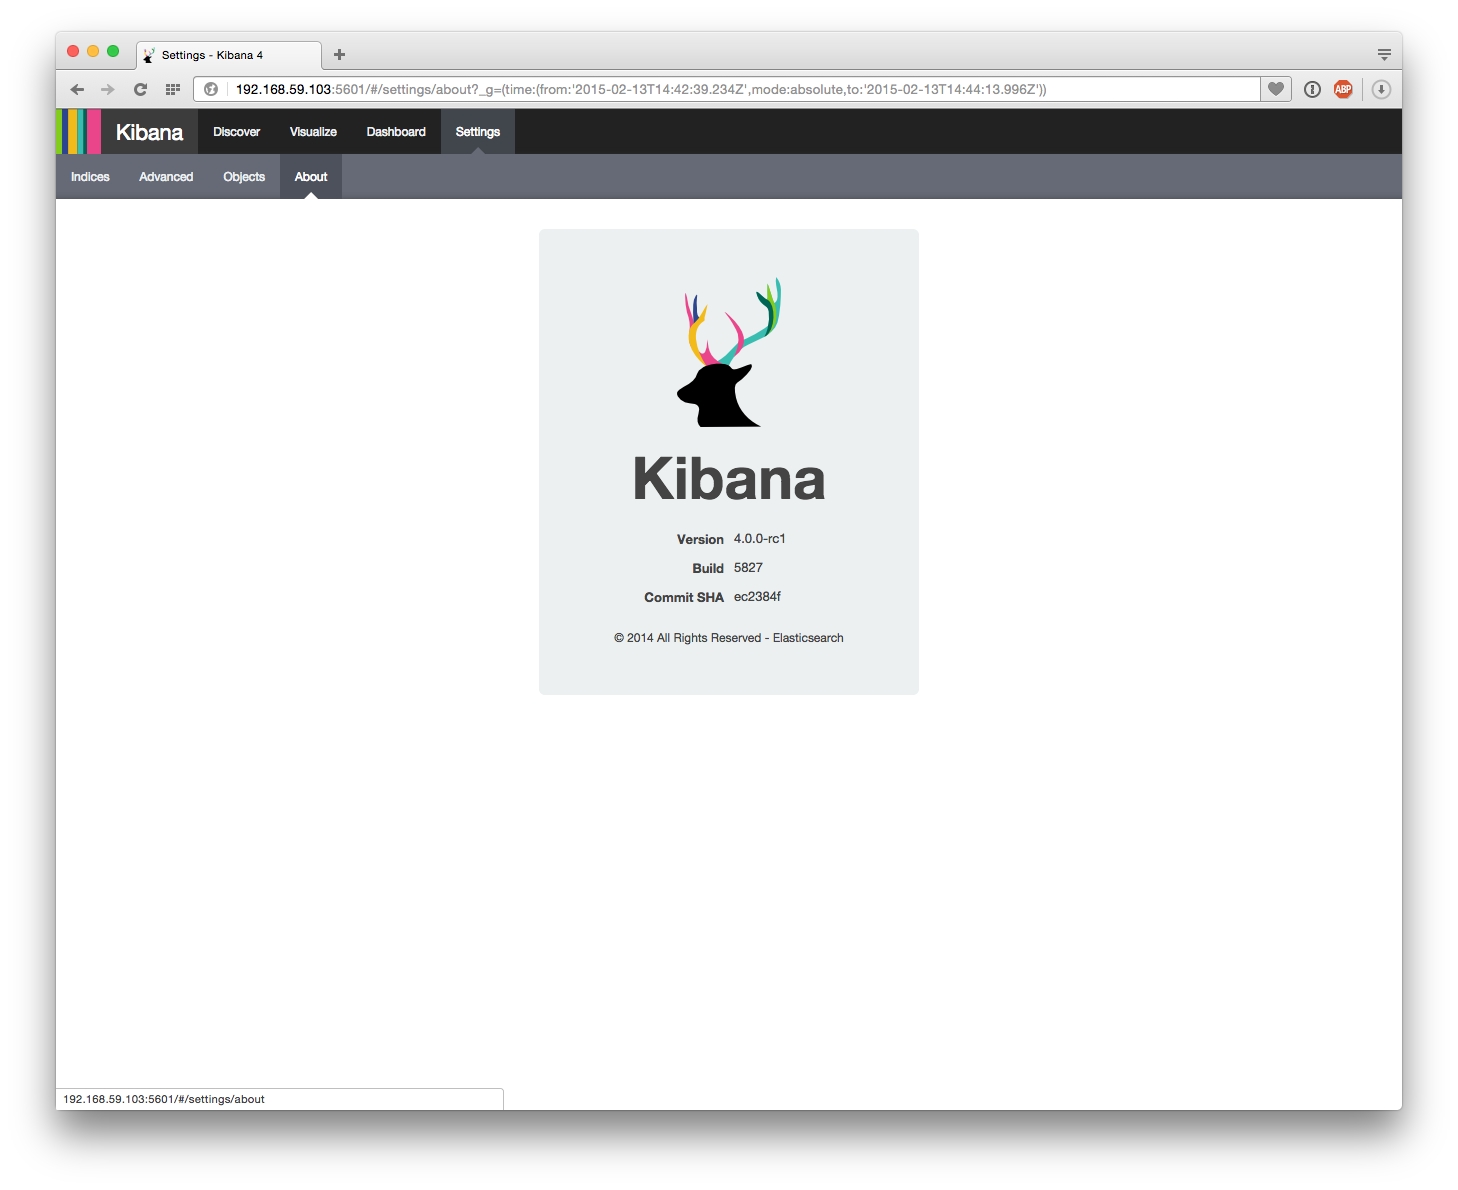
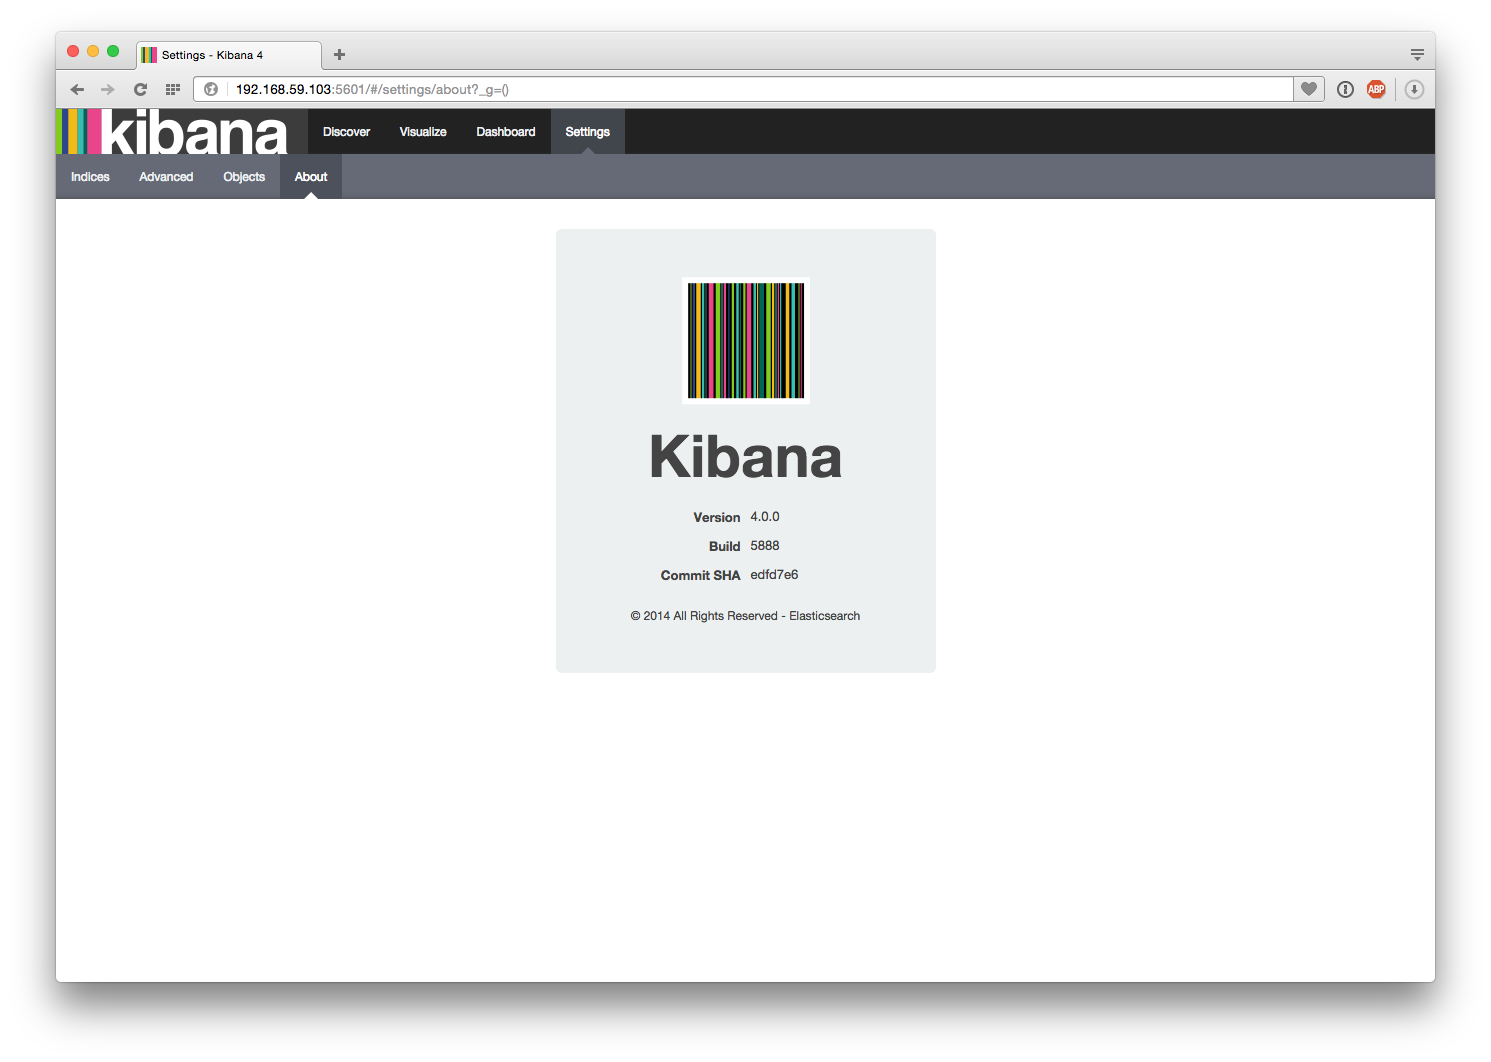
Update to Kibana 4

Changed region(s): [[0.0309, 0.0311, 0.9877, 0.1864], [0.4321, 0.2486, 0.5864, 0.5904], [0.0309, 0.9011, 0.9568, 0.9322]]

diff --git a/README.md b/README.md
@@ -1,4 +1,4 @@
-Docker-Script to create a simple, interactive Docker container for a complete ELK-Stack with [Elasticsearch](http://www.elasticsearch.com/products/elasticsearch/) / [Logstash](http://www.elasticsearch.com/products/logstash/) / [Kibana 4 - RC 1](http://www.elasticsearch.com/products/kibana/).
+Docker-Script to create a simple, interactive Docker container for a complete ELK-Stack with [Elasticsearch](http://www.elasticsearch.com/products/elasticsearch/) / [Logstash](http://www.elasticsearch.com/products/logstash/) / [Kibana 4](http://www.elasticsearch.com/products/kibana/).
 
 # Setup
 ```
